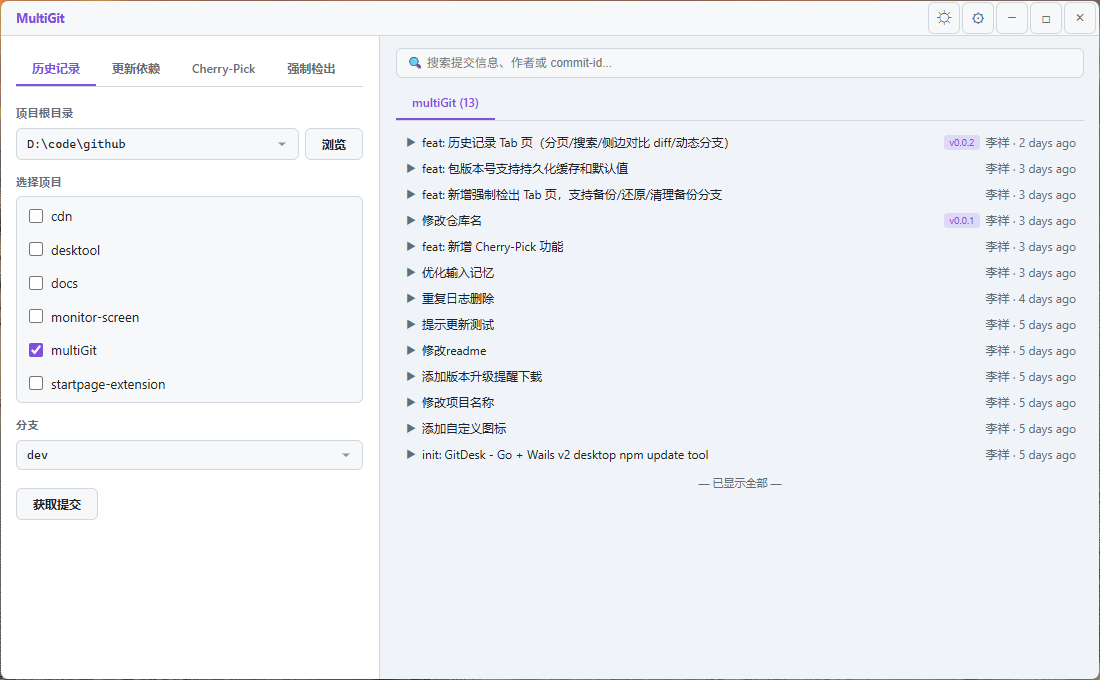
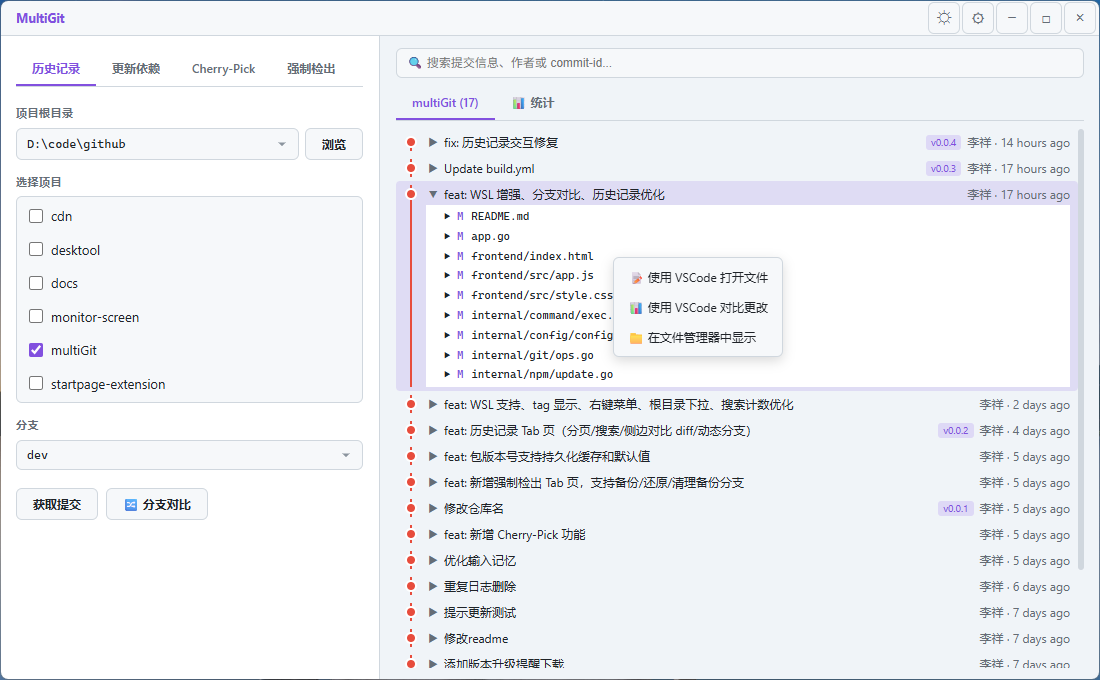
feat: 历史记录新增 git graph 分支图及搜索竞态修复
- 提交列表左侧渲染多车道彩色分支图（merge 汇入/分叉曲线、提交圆点）
- 后端 git.Log 增加 %P 父提交字段供图布局使用
- 每行图宽按需伸缩，线性历史无空白、翻页不抖动
- 搜索模式隐藏图列
- 修复切换项目后 tab 标签仍显示上一个项目（input 监听器累积泄漏）
- 修复搜索/翻页竞态导致跨项目内容串台（代际令牌 searchGen）
- 修复滚动分页在 100 条处误显示已全部加载（updateTabCounts 遍历统计 tab 崩溃被 catch 吞掉）

diff --git a/frontend/src/app.js b/frontend/src/app.js
@@ -539,22 +539,117 @@ function showHistoryPanel(projectPaths, branch, pageSize, searchPageSize, firstP
         });
     }
 
+    const LANE_COLORS = ['#e74c3c','#3498db','#2ecc71','#f39c12','#9b59b6','#1abc9c','#e67e22','#34495e'];
+    const GRAPH_DOT_Y = 9;
+    const GRAPH_CURVE = 6;
+    const LANE_W = 14;
+    const GRAPH_X_OFFSET = 4;
+
+    function nearestEmpty(lanes, from) {
+        let best = -1, bestDist = Infinity;
+        for (let i = 0; i < lanes.length; i++) {
+            if (lanes[i] === null) {
+                const d = Math.abs(i - from);
+                if (d < bestDist) { bestDist = d; best = i; }
+            }
+        }
+        return best;
+    }
+
+    function computeGraph(commits) {
+        const lanes = [];
+        return commits.map(c => {
+            const hash = c.hash;
+            const parents = c.parents || [];
+            const incoming = [];
+            for (let i = 0; i < lanes.length; i++) if (lanes[i] !== null) incoming.push(i);
+            const arriving = [];
+            for (let i = 0; i < lanes.length; i++) if (lanes[i] === hash) arriving.push(i);
+            let dotCol;
+            const mergeIn = [];
+            if (arriving.length > 0) {
+                dotCol = arriving[0];
+                for (let j = 1; j < arriving.length; j++) mergeIn.push(arriving[j]);
+                for (const m of mergeIn) lanes[m] = null;
+            } else {
+                dotCol = lanes.indexOf(null);
+                if (dotCol === -1) { lanes.push(null); dotCol = lanes.length - 1; }
+            }
+            const spawnOut = [];
+            if (parents.length === 0) {
+                lanes[dotCol] = null;
+            } else {
+                lanes[dotCol] = parents[0];
+                for (let k = 1; k < parents.length; k++) {
+                    let slot = nearestEmpty(lanes, dotCol);
+                    if (slot === -1) { lanes.push(parents[k]); slot = lanes.length - 1; }
+                    else lanes[slot] = parents[k];
+                    spawnOut.push(slot);
+                }
+            }
+            const outgoing = [];
+            for (let i = 0; i < lanes.length; i++) if (lanes[i] !== null) outgoing.push(i);
+            return { dotCol, mergeIn, spawnOut, incoming, outgoing };
+        });
+    }
+
+    function renderGraphCell(row, laneX, graphW) {
+        const color = (col) => LANE_COLORS[col % LANE_COLORS.length];
+        const dotX = laneX(row.dotCol);
+        let paths = '';
+        for (const col of row.incoming) {
+            const fx = laneX(col);
+            if (row.mergeIn.includes(col)) {
+                paths += `<path d="M${fx} 0 C${fx} ${GRAPH_DOT_Y - GRAPH_CURVE} ${dotX} ${GRAPH_DOT_Y - GRAPH_CURVE} ${dotX} ${GRAPH_DOT_Y}" stroke="${color(col)}" stroke-width="2" fill="none"/>`;
+            } else {
+                paths += `<path d="M${fx} 0 L${fx} ${GRAPH_DOT_Y}" stroke="${color(col)}" stroke-width="2" fill="none"/>`;
+            }
+        }
+        for (const col of row.outgoing) {
+            const cx = laneX(col);
+            if (row.spawnOut.includes(col)) {
+                paths += `<path d="M${dotX} ${GRAPH_DOT_Y} C${dotX} ${GRAPH_DOT_Y + GRAPH_CURVE} ${cx} ${GRAPH_DOT_Y + GRAPH_CURVE} ${cx} ${GRAPH_DOT_Y + GRAPH_CURVE} L${cx} 10000" stroke="${color(col)}" stroke-width="2" fill="none"/>`;
+            } else {
+                paths += `<path d="M${cx} ${GRAPH_DOT_Y} L${cx} 10000" stroke="${color(col)}" stroke-width="2" fill="none"/>`;
+            }
+        }
+        const dot = `<circle cx="${dotX}" cy="${GRAPH_DOT_Y}" r="5" fill="${color(row.dotCol)}" style="stroke:var(--bg);stroke-width:2"/>`;
+        return `<div class="commit-graph" style="width:${graphW}px"><svg style="position:absolute;left:0;top:0;width:100%;height:100%;overflow:hidden;display:block">${paths}${dot}</svg></div>`;
+    }
+
     function renderProjectCommits(commits, projectPath) {
         const isSearch = s.isSearchMode;
         const loaded = isSearch ? isSearchAllLoaded() : isAllLoaded();
         const hasMore = !loaded && !s.loading;
 
-        content.innerHTML = commits.map(c =>
-            `<div class="commit-item" data-hash="${c.hash}" data-project="${escapeHtml(projectPath)}" style="padding:4px 8px;flex-direction:column">
-                <div style="width:100%;display:flex;align-items:center;gap:4px;font-size:12px">
-                    <span class="commit-toggle" style="flex-shrink:0;width:14px;text-align:center;color:var(--text-muted);font-size:10px">▶</span>
-                    <span style="flex:1;min-width:0;overflow:hidden;text-overflow:ellipsis;white-space:nowrap;color:var(--text)" title="${escapeHtml(c.message)}">${escapeHtml(c.message)}</span>
-                    ${(c.tags || []).map(t => `<span style="display:inline-block;padding:0 5px;margin:0 2px;font-size:10px;border-radius:3px;background:rgba(124,58,237,0.15);color:var(--primary);white-space:nowrap">${escapeHtml(t)}</span>`).join('')}
-                    <span style="flex-shrink:0;color:var(--text-muted);white-space:nowrap" title="${escapeHtml(c.dateISO)}">${escapeHtml(c.author)} &middot; ${escapeHtml(c.date)}</span>
+        let graphRows = null;
+        if (!isSearch) {
+            graphRows = computeGraph(commits);
+        }
+        const laneX = (col) => GRAPH_X_OFFSET + col * LANE_W + LANE_W / 2;
+        const rowGraphW = (row) => {
+            if (!row) return 20;
+            let m = row.dotCol + 1;
+            for (const c of row.incoming) if (c + 1 > m) m = c + 1;
+            for (const c of row.outgoing) if (c + 1 > m) m = c + 1;
+            return Math.max(20, GRAPH_X_OFFSET + (m - 1) * LANE_W + LANE_W / 2 + 6);
+        };
+
+        content.innerHTML = commits.map((c, i) => {
+            const graph = isSearch ? '' : renderGraphCell(graphRows[i], laneX, rowGraphW(graphRows[i]));
+            return `<div class="commit-item" data-hash="${c.hash}" data-project="${escapeHtml(projectPath)}" style="padding:4px 8px 4px 4px">
+                ${graph}
+                <div class="commit-body">
+                    <div style="width:100%;display:flex;align-items:center;gap:4px;font-size:12px">
+                        <span class="commit-toggle" style="flex-shrink:0;width:14px;text-align:center;color:var(--text-muted);font-size:10px">▶</span>
+                        <span style="flex:1;min-width:0;overflow:hidden;text-overflow:ellipsis;white-space:nowrap;color:var(--text)" title="${escapeHtml(c.message)}">${escapeHtml(c.message)}</span>
+                        ${(c.tags || []).map(t => `<span style="display:inline-block;padding:0 5px;margin:0 2px;font-size:10px;border-radius:3px;background:rgba(124,58,237,0.15);color:var(--primary);white-space:nowrap">${escapeHtml(t)}</span>`).join('')}
+                        <span style="flex-shrink:0;color:var(--text-muted);white-space:nowrap" title="${escapeHtml(c.dateISO)}">${escapeHtml(c.author)} &middot; ${escapeHtml(c.date)}</span>
+                    </div>
+                    <div class="commit-files" style="display:none;padding:2px 0 2px 18px;width:100%;font-size:11px;font-family:var(--font-mono);line-height:1.8"></div>
                 </div>
-                <div class="commit-files" style="display:none;padding:2px 0 2px 18px;width:100%;font-size:11px;font-family:var(--font-mono);line-height:1.8"></div>
-            </div>`
-        ).join('') || '<div style="padding:8px;color:var(--text-muted);font-size:12px">没有提交记录</div>';
+            </div>`;
+        }).join('') || '<div style="padding:8px;color:var(--text-muted);font-size:12px">没有提交记录</div>';
 
         if (hasMore) {
             const indicator = document.createElement('div');

diff --git a/frontend/src/style.css b/frontend/src/style.css
@@ -604,8 +604,8 @@ select.input {
 
 .commit-item {
     display: flex;
-    align-items: flex-start;
-    gap: 8px;
+    align-items: stretch;
+    gap: 6px;
     padding: 6px 8px;
     border-radius: 4px;
     cursor: pointer;
@@ -618,6 +618,19 @@ select.input {
 
 .commit-item.active {
     background: var(--commit-active-bg);
+}
+
+.commit-graph {
+    width: 28px;
+    flex-shrink: 0;
+    position: relative;
+    align-self: stretch;
+}
+.commit-body {
+    flex: 1;
+    min-width: 0;
+    display: flex;
+    flex-direction: column;
 }
 
 .commit-files {

diff --git a/internal/git/ops.go b/internal/git/ops.go
@@ -69,6 +69,7 @@ type CommitInfo struct {
 	Timestamp int64    `json:"-"`
 	Tags      []string `json:"tags,omitempty"`
 	DateISO   string   `json:"dateISO,omitempty"`
+	Parents   []string `json:"parents,omitempty"`
 }
 
 type CommitDetail struct {
@@ -440,7 +441,7 @@ func Fetch(ctx context.Context, cwd string) error {
 }
 
 func Log(cwd, ref string, n, skip int) ([]CommitInfo, error) {
-	cmd := gitCmd(cwd, "log", ref, fmt.Sprintf("--skip=%d", skip), fmt.Sprintf("-n%d", n), "--date=format:%Y-%m-%d %H:%M:%S", "--format=%H%x00%an%x00%ar%x00%s%x00%D%x00%ad")
+	cmd := gitCmd(cwd, "log", ref, fmt.Sprintf("--skip=%d", skip), fmt.Sprintf("-n%d", n), "--date=format:%Y-%m-%d %H:%M:%S", "--format=%H%x00%an%x00%ar%x00%s%x00%D%x00%ad%x00%P")
 	out, err := cmd.Output()
 	if err != nil {
 		return nil, err
@@ -451,7 +452,7 @@ func Log(cwd, ref string, n, skip int) ([]CommitInfo, error) {
 		if line == "" {
 			continue
 		}
-		parts := strings.SplitN(line, "\x00", 6)
+		parts := strings.SplitN(line, "\x00", 7)
 		if len(parts) >= 4 {
 			c := CommitInfo{Hash: parts[0], Author: parts[1], Date: parts[2], Message: parts[3]}
 			if len(parts) >= 5 {
@@ -459,6 +460,9 @@ func Log(cwd, ref string, n, skip int) ([]CommitInfo, error) {
 			}
 			if len(parts) >= 6 {
 				c.DateISO = parts[5]
+			}
+			if len(parts) >= 7 {
+				c.Parents = strings.Fields(parts[6])
 			}
 			commits = append(commits, c)
 		}

diff --git a/README.md b/README.md
@@ -10,6 +10,7 @@
 
 ### 历史记录
 - 按项目分组展示任意分支的提交历史，支持滚动分页加载
+- 提交列表左侧渲染类似 VSCode 的 git graph 分支图（多车道彩色线条、merge 汇入/分叉曲线、提交圆点），展开文件变更时线条跟随延伸
 - 按提交信息、作者名或 commit-id 搜索全量历史
 - 每个 commit 可展开查看文件变更列表（A/M/D 状态）
 - 文件级侧边对比 diff（左右两栏同步滚动）
